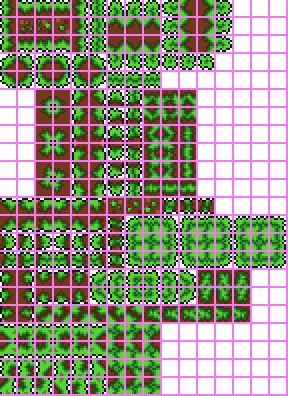
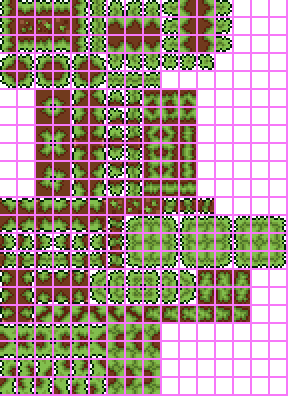
Things
-Add a couple more tokens for imk's tokens mod compat
-Move sword net recipes out of RecipeCreator
-Update Tropics Grass/Shortgrass/Vines to match the tree color
-Update Dark Matter Token's colors

Changed region(s): [[0.0, 0.0, 1.0, 1.0], [0.125, 0.3333, 0.2188, 0.3939], [0.1562, 0.2424, 0.2188, 0.303]]

diff --git a/Logic/RecipeCreator.cs b/Logic/RecipeCreator.cs
@@ -1,4 +1,4 @@
-using ExxoAvalonOrigins.Items.Accessories;
+using ExxoAvalonOrigins.Items.Accessories;
 using ExxoAvalonOrigins.Items.Ammo;
 using ExxoAvalonOrigins.Items.Armor;
 using ExxoAvalonOrigins.Items.Consumables;
@@ -973,55 +973,6 @@ namespace ExxoAvalonOrigins.Logic
             recipe.AddIngredient(ItemID.Blowpipe);
             recipe.AddTile(TileID.Anvils);
             recipe.SetResult(ModContent.ItemType<ReinforcedBlowpipe>());
-            recipe.AddRecipe();
-
-            recipe = new ModRecipe(mod);
-            recipe.AddIngredient(ItemID.PlatinumBroadsword);
-            recipe.AddIngredient(ItemID.BugNet);
-            recipe.AddTile(TileID.Anvils);
-            recipe.SetResult(ModContent.ItemType<PlatinumSwordNet>());
-            recipe.AddRecipe();
-
-            recipe = new ModRecipe(mod);
-            recipe.AddIngredient(ItemID.GoldBroadsword);
-            recipe.AddIngredient(ItemID.BugNet);
-            recipe.AddTile(TileID.Anvils);
-            recipe.SetResult(ModContent.ItemType<GoldSwordNet>());
-            recipe.AddRecipe();
-			
-			recipe = new ModRecipe(mod);
-            recipe.AddIngredient(ModContent.ItemType<BismuthBroadsword>());
-            recipe.AddIngredient(ItemID.BugNet);
-            recipe.AddTile(TileID.Anvils);
-            recipe.SetResult(ModContent.ItemType<BismuthSwordNet>());
-            recipe.AddRecipe();
-
-            recipe = new ModRecipe(mod);
-            recipe.AddIngredient(ModContent.ItemType<GoldSwordNet>());
-            recipe.AddIngredient(ItemID.HallowedBar, 10);
-            recipe.AddTile(TileID.Anvils);
-            recipe.SetResult(ModContent.ItemType<ExcaliburNet>());
-            recipe.AddRecipe();
-			
-			recipe = new ModRecipe(mod);
-            recipe.AddIngredient(ModContent.ItemType<PlatinumSwordNet>());
-            recipe.AddIngredient(ItemID.HallowedBar, 10);
-            recipe.AddTile(TileID.Anvils);
-            recipe.SetResult(ModContent.ItemType<ExcaliburNet>());
-            recipe.AddRecipe();
-			
-			recipe = new ModRecipe(mod);
-            recipe.AddIngredient(ModContent.ItemType<BismuthSwordNet>());
-            recipe.AddIngredient(ItemID.HallowedBar, 10);
-            recipe.AddTile(TileID.Anvils);
-            recipe.SetResult(ModContent.ItemType<ExcaliburNet>());
-            recipe.AddRecipe();
-
-            recipe = new ModRecipe(mod);
-            recipe.AddIngredient(ModContent.ItemType<ExcaliburNet>());
-            recipe.AddIngredient(ModContent.ItemType<OblivionBar>(), 10);
-            recipe.AddTile(TileID.Anvils);
-            recipe.SetResult(ModContent.ItemType<Oblivionet>());
             recipe.AddRecipe();
 
             recipe = new ModRecipe(mod);

diff --git a/Logic/SushiRecipes.cs b/Logic/SushiRecipes.cs
@@ -5,9 +5,57 @@ namespace ExxoAvalonOrigins.Logic
 {
     public static class SushiRecipes
     {
-        public static void CreateRecipes(Mod mod)
+        public static void CreateRecipes(Mod mod, Mod imk)
         {
             ModRecipe recipe;
+
+            recipe = new ModRecipe(mod);
+            recipe.AddIngredient(ModContent.ItemType<Items.Tokens.HellcastleToken>());
+            recipe.AddTile(TileID.TinkerersWorkbench);
+            recipe.SetResult(imk.ItemType("LootMartiansToken"));
+            recipe.AddRecipe();
+
+            recipe = new ModRecipe(mod);
+            recipe.AddIngredient(imk.ItemType("UndergroundCorruptionEocToken"));
+            recipe.AddTile(TileID.MythrilAnvil);
+            recipe.SetResult(imk.ItemType("UndergroundCrimsonEocToken"));
+            recipe.AddRecipe();
+
+            recipe = new ModRecipe(mod);
+            recipe.AddIngredient(imk.ItemType("UndergroundCrimsonEocToken"));
+            recipe.AddTile(TileID.MythrilAnvil);
+            recipe.SetResult(ModContent.ItemType<Items.Tokens.ContagionToken>());
+            recipe.AddRecipe();
+
+            recipe = new ModRecipe(mod);
+            recipe.AddIngredient(ModContent.ItemType<Items.Tokens.ContagionToken>());
+            recipe.AddTile(TileID.MythrilAnvil);
+            recipe.SetResult(imk.ItemType("UndergroundCorruptionEocToken"));
+            recipe.AddRecipe();
+
+            recipe = new ModRecipe(mod);
+            recipe.AddIngredient(ModContent.ItemType<Items.Tokens.TropicsToken>());
+            recipe.AddTile(TileID.MythrilAnvil);
+            recipe.SetResult(imk.ItemType("UndergroundJungleStartToken"));
+            recipe.AddRecipe();
+
+            recipe = new ModRecipe(mod);
+            recipe.AddIngredient(imk.ItemType("UndergroundJungleStartToken"));
+            recipe.AddTile(TileID.MythrilAnvil);
+            recipe.SetResult(ModContent.ItemType<Items.Tokens.TropicsToken>());
+            recipe.AddRecipe();
+
+            recipe = new ModRecipe(mod);
+            recipe.AddIngredient(ModContent.ItemType<Items.Tokens.TropicsToken>(), 25);
+            recipe.AddTile(TileID.TinkerersWorkbench);
+            recipe.SetResult(ModContent.ItemType<Items.Weapons.Ranged.Thompson>());
+            recipe.AddRecipe();
+
+            recipe = new ModRecipe(mod);
+            recipe.AddIngredient(ModContent.ItemType<Items.Tokens.TropicsToken>(), 25);
+            recipe.AddTile(TileID.TinkerersWorkbench);
+            recipe.SetResult(ItemID.AnkletoftheWind);
+            recipe.AddRecipe();
 
             recipe = new ModRecipe(mod);
             recipe.AddIngredient(ModContent.ItemType<Items.Tokens.SuperhardmodeToken>(), 25);

diff --git a/ExxoAvalonOriginsGlobalNPC.cs b/ExxoAvalonOriginsGlobalNPC.cs
@@ -806,6 +806,14 @@ IL_162:
             }
             if (imkCompat && npc.lifeMax > 5 && !npc.townNPC)
             {
+                if (Main.rand.Next(15) == 0 && Main.player[Player.FindClosest(npc.position, npc.width, npc.height)].GetModPlayer<ExxoAvalonOriginsModPlayer>().zoneOutpost)
+                {
+                    Item.NewItem(npc.getRect(), ModContent.ItemType<Items.Tokens.OutpostToken>());
+                }
+                if (Main.rand.Next(15) == 0 && Main.player[Player.FindClosest(npc.position, npc.width, npc.height)].GetModPlayer<ExxoAvalonOriginsModPlayer>().zoneTropics && Main.player[Player.FindClosest(npc.position, npc.width, npc.height)].ZoneRockLayerHeight)
+                {
+                    Item.NewItem(npc.getRect(), ModContent.ItemType<Items.Tokens.TropicsToken>());
+                }
                 if (Main.rand.Next(15) == 0 && ModContent.GetInstance<ExxoAvalonOriginsWorld>().SuperHardmode && !stoppedArmageddon)
                 {
                     Item.NewItem(npc.getRect(), ModContent.ItemType<Items.Tokens.SuperhardmodeToken>());
@@ -822,7 +830,7 @@ IL_162:
                 {
                     Item.NewItem(npc.getRect(), ModContent.ItemType<Items.Tokens.DarkMatterToken>());
                 }
-                if (Main.rand.Next(15) == 0 && Main.player[Player.FindClosest(npc.position, npc.width, npc.height)].GetModPlayer<ExxoAvalonOriginsModPlayer>().zoneBooger)
+                if (Main.rand.Next(15) == 0 && NPC.downedBoss1 && Main.player[Player.FindClosest(npc.position, npc.width, npc.height)].GetModPlayer<ExxoAvalonOriginsModPlayer>().zoneBooger && Main.player[Player.FindClosest(npc.position, npc.width, npc.height)].ZoneRockLayerHeight)
                 {
                     Item.NewItem(npc.getRect(), ModContent.ItemType<Items.Tokens.ContagionToken>());
                 }
@@ -839,7 +847,7 @@ IL_162:
             {
                 Item.NewItem((int)npc.position.X, (int)npc.position.Y, npc.width, npc.height, ItemID.SoulofNight, 1, false, 0, false);
             }
-            if (npc.type == NPCID.DungeonSpirit && Main.rand.Next(7) == 0)
+            if (npc.type == NPCID.DungeonSpirit && Main.rand.Next(7) == 0 && Main.player[Player.FindClosest(npc.position, npc.width, npc.height)].ZoneDungeon)
             {
                 int proj = Projectile.NewProjectile(npc.position, npc.velocity, ModContent.ProjectileType<Projectiles.SpiritPoppy>(), 0, 0, Main.myPlayer);
                 Main.projectile[proj].velocity.Y = -3.5f;

diff --git a/ExxoAvalonOriginsModPlayer.cs b/ExxoAvalonOriginsModPlayer.cs
@@ -269,6 +269,7 @@ namespace ExxoAvalonOrigins
         public bool zoneDarkMatter;
         public bool zoneTropics;
         public bool zoneCaesium;
+        public bool zoneOutpost;
         public bool meleeStealth;
         public bool releaseQuickStamina;
         public int stamRegen;
@@ -492,9 +493,11 @@ namespace ExxoAvalonOrigins
                     zoneHellcastle = true;
                 }
             }
+            Point tileC = player.position.ToTileCoordinates();
             zoneBooger = ExxoAvalonOriginsWorld.ickyTiles > 200;
             zoneDarkMatter = ExxoAvalonOriginsWorld.darkTiles > 300;
             zoneTropics = ExxoAvalonOriginsWorld.tropicTiles > 50;
+            zoneOutpost = ExxoAvalonOriginsWorld.tropicTiles > 50 && Main.tile[tileC.X, tileC.Y].wall == ModContent.WallType<Walls.TuhrtlBrickWallUnsafe>() && player.ZoneRockLayerHeight;
             zoneCaesium = ExxoAvalonOriginsWorld.caesiumTiles > 200 && player.position.Y / 16 > Main.maxTilesY - 200;
         }
 
@@ -506,6 +509,7 @@ namespace ExxoAvalonOrigins
             flags[2] = zoneDarkMatter;
             flags[3] = zoneTropics;
             flags[4] = zoneCaesium;
+            flags[5] = zoneOutpost;
             writer.Write(flags);
         }
 
@@ -517,6 +521,7 @@ namespace ExxoAvalonOrigins
             zoneDarkMatter = flags[2];
             zoneTropics = flags[3];
             zoneCaesium = flags[4];
+            zoneOutpost = flags[5];
         }
 
         public bool HasItemInArmor(int type)

diff --git a/Items/Weapons/Melee/ExcaliburNet.cs b/Items/Weapons/Melee/ExcaliburNet.cs
@@ -1,4 +1,4 @@
-using Microsoft.Xna.Framework;
+using Microsoft.Xna.Framework;
 using Terraria;
 using Terraria.ID;
 using Terraria.ModLoader;
@@ -29,5 +29,28 @@ namespace ExxoAvalonOrigins.Items.Weapons.Melee
 			item.height = dims.Height;
             item.UseSound = SoundID.Item1;
         }
-	}
+        public override void AddRecipes()
+        {
+            ModRecipe recipe = new ModRecipe(mod);
+            recipe.AddIngredient(ModContent.ItemType<GoldSwordNet>());
+            recipe.AddIngredient(ItemID.HallowedBar, 10);
+            recipe.AddTile(TileID.Anvils);
+            recipe.SetResult(this);
+            recipe.AddRecipe();
+
+            recipe = new ModRecipe(mod);
+            recipe.AddIngredient(ModContent.ItemType<PlatinumSwordNet>());
+            recipe.AddIngredient(ItemID.HallowedBar, 10);
+            recipe.AddTile(TileID.Anvils);
+            recipe.SetResult(this);
+            recipe.AddRecipe();
+
+            recipe = new ModRecipe(mod);
+            recipe.AddIngredient(ModContent.ItemType<BismuthSwordNet>());
+            recipe.AddIngredient(ItemID.HallowedBar, 10);
+            recipe.AddTile(TileID.Anvils);
+            recipe.SetResult(this);
+            recipe.AddRecipe();
+        }
+    }
 }

diff --git a/Items/Tokens/OutpostToken.cs b/Items/Tokens/OutpostToken.cs
@@ -4,20 +4,20 @@ using Terraria.ModLoader;
 
 namespace ExxoAvalonOrigins.Items.Tokens
 {
-	class ContagionToken : ModItem
+	class OutpostToken : ModItem
 	{
 		public override void SetStaticDefaults()
 		{
-			DisplayName.SetDefault("Contagion Token");
-            Tooltip.SetDefault("Used to make things\nGathered in the Contagion, having defeated a boss");
-		}
+			DisplayName.SetDefault("Tuhrtl Outpost Token");
+            Tooltip.SetDefault("Used to make things\nGathered in the Tuhrtl Outpost");
+        }
 
 		public override void SetDefaults()
 		{
 			Rectangle dims = this.GetDims();
 			item.width = dims.Width;
             item.rare = ItemRarityID.Blue;
-			item.maxStack = 999;
+            item.maxStack = 999;
 			item.value = 0;
 			item.height = dims.Height;
 		}

diff --git a/Items/Tokens/TropicsToken.cs b/Items/Tokens/TropicsToken.cs
@@ -4,20 +4,20 @@ using Terraria.ModLoader;
 
 namespace ExxoAvalonOrigins.Items.Tokens
 {
-	class ContagionToken : ModItem
+	class TropicsToken : ModItem
 	{
 		public override void SetStaticDefaults()
 		{
-			DisplayName.SetDefault("Contagion Token");
-            Tooltip.SetDefault("Used to make things\nGathered in the Contagion, having defeated a boss");
-		}
+			DisplayName.SetDefault("Tropics Token");
+            Tooltip.SetDefault("Used to make things\nGathered in the Tropics");
+        }
 
 		public override void SetDefaults()
 		{
 			Rectangle dims = this.GetDims();
 			item.width = dims.Width;
             item.rare = ItemRarityID.Blue;
-			item.maxStack = 999;
+            item.maxStack = 999;
 			item.value = 0;
 			item.height = dims.Height;
 		}

diff --git a/Items/Weapons/Melee/Oblivionet.cs b/Items/Weapons/Melee/Oblivionet.cs
@@ -1,4 +1,4 @@
-using Microsoft.Xna.Framework;
+using Microsoft.Xna.Framework;
 using Terraria;
 using Terraria.ID;
 using Terraria.ModLoader;
@@ -29,5 +29,14 @@ namespace ExxoAvalonOrigins.Items.Weapons.Melee
 			item.height = dims.Height;
             item.UseSound = SoundID.Item1;
         }
-	}
+        public override void AddRecipes()
+        {
+            ModRecipe recipe = new ModRecipe(mod);
+            recipe.AddIngredient(ModContent.ItemType<ExcaliburNet>());
+            recipe.AddIngredient(ModContent.ItemType<Placeable.Bar.OblivionBar>(), 10);
+            recipe.AddTile(TileID.Anvils);
+            recipe.SetResult(this);
+            recipe.AddRecipe();
+        }
+    }
 }

diff --git a/Items/Weapons/Melee/BismuthSwordNet.cs b/Items/Weapons/Melee/BismuthSwordNet.cs
@@ -1,4 +1,4 @@
-using Microsoft.Xna.Framework;
+using Microsoft.Xna.Framework;
 using Terraria;
 using Terraria.ID;
 using Terraria.ModLoader;
@@ -28,5 +28,14 @@ namespace ExxoAvalonOrigins.Items.Weapons.Melee
 			item.height = dims.Height;
             item.UseSound = SoundID.Item1;
         }
-	}
+        public override void AddRecipes()
+        {
+            ModRecipe recipe = new ModRecipe(mod);
+            recipe.AddIngredient(ModContent.ItemType<BismuthBroadsword>());
+            recipe.AddIngredient(ItemID.BugNet);
+            recipe.AddTile(TileID.Anvils);
+            recipe.SetResult(this);
+            recipe.AddRecipe();
+        }
+    }
 }

diff --git a/Items/Weapons/Melee/PlatinumSwordNet.cs b/Items/Weapons/Melee/PlatinumSwordNet.cs
@@ -1,4 +1,4 @@
-using Microsoft.Xna.Framework;
+using Microsoft.Xna.Framework;
 using Terraria;
 using Terraria.ID;
 using Terraria.ModLoader;
@@ -28,5 +28,14 @@ namespace ExxoAvalonOrigins.Items.Weapons.Melee
 			item.height = dims.Height;
             item.UseSound = SoundID.Item1;
         }
-	}
+        public override void AddRecipes()
+        {
+            ModRecipe recipe = new ModRecipe(mod);
+            recipe.AddIngredient(ItemID.PlatinumBroadsword);
+            recipe.AddIngredient(ItemID.BugNet);
+            recipe.AddTile(TileID.Anvils);
+            recipe.SetResult(this);
+            recipe.AddRecipe();
+        }
+    }
 }

diff --git a/Items/Weapons/Melee/GoldSwordNet.cs b/Items/Weapons/Melee/GoldSwordNet.cs
@@ -1,4 +1,4 @@
-using Microsoft.Xna.Framework;
+using Microsoft.Xna.Framework;
 using Terraria;
 using Terraria.ID;
 using Terraria.ModLoader;
@@ -28,5 +28,14 @@ namespace ExxoAvalonOrigins.Items.Weapons.Melee
 			item.height = dims.Height;
             item.UseSound = SoundID.Item1;
         }
-	}
+        public override void AddRecipes()
+        {
+            ModRecipe recipe = new ModRecipe(mod);
+            recipe.AddIngredient(ItemID.GoldBroadsword);
+            recipe.AddIngredient(ItemID.BugNet);
+            recipe.AddTile(TileID.Anvils);
+            recipe.SetResult(this);
+            recipe.AddRecipe();
+        }
+    }
 }

diff --git a/ExxoAvalonOriginsGlobalItemInstance.cs b/ExxoAvalonOriginsGlobalItemInstance.cs
@@ -17,7 +17,6 @@ namespace ExxoAvalonOrigins
         public override bool InstancePerEntity => true;
         public bool invince;
         public int torch = 0;
-        public int wallWand = -1;
         public int healStamina;
         public bool tome = false;
         public bool updateInvisibleVanity = false;
